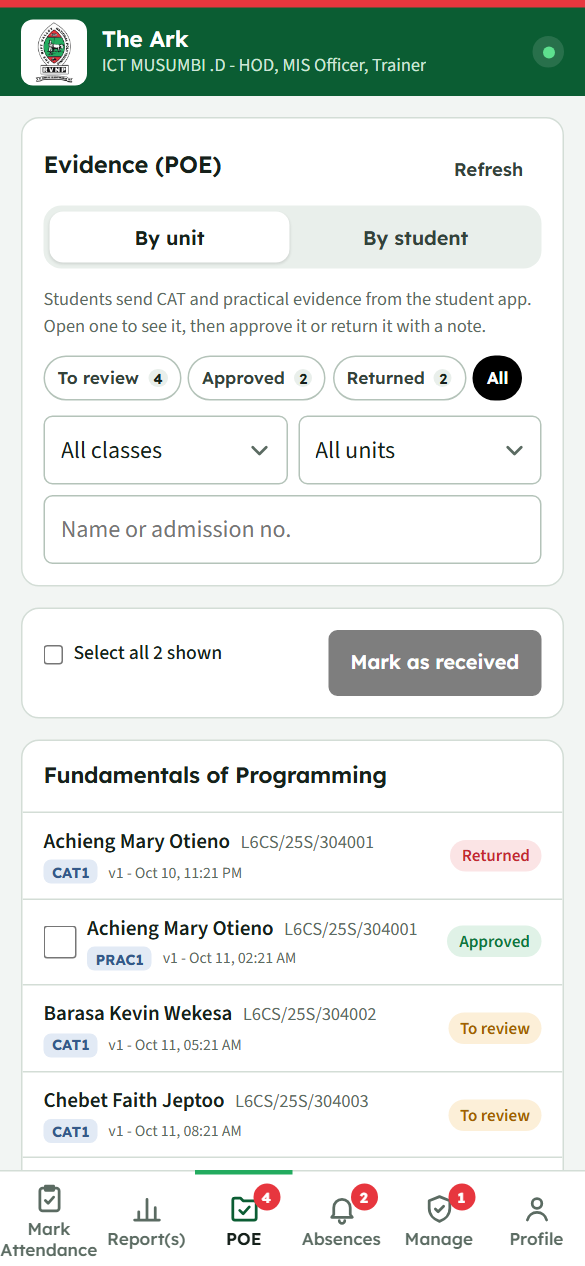
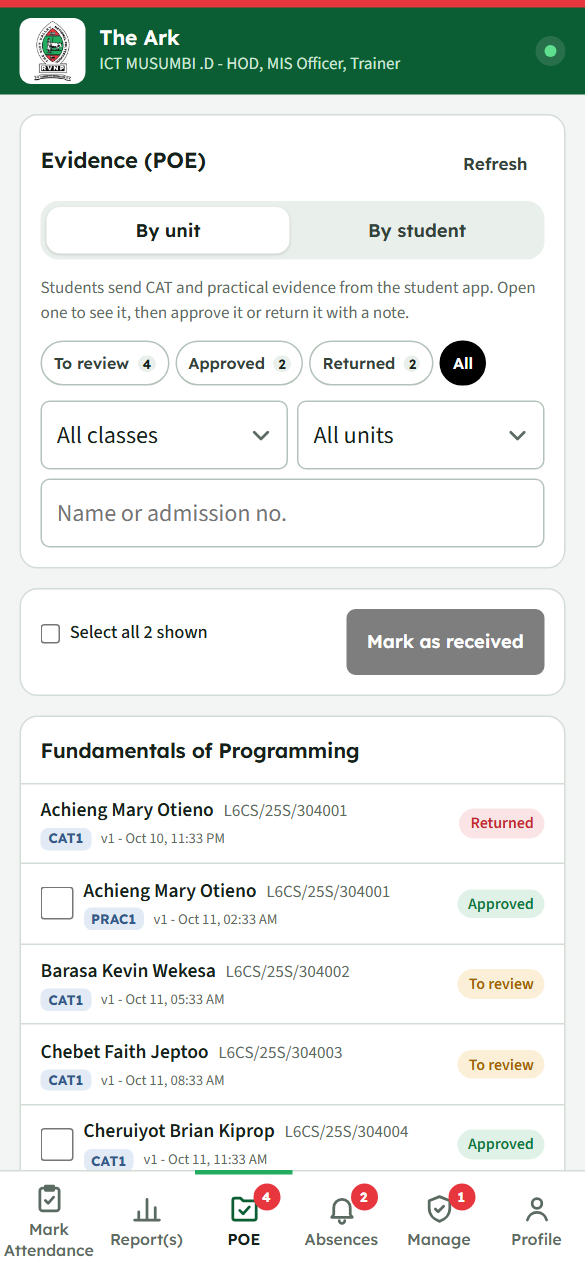
Smaller text again on phones (13 px base), staff and student apps; screenshots refreshed; 4.13.2

diff --git a/styles.css b/styles.css
@@ -947,11 +947,11 @@ body.student .status .btn svg.i { width: 15px; height: 15px; }
 .shutter:active { transform: scale(.94); }
 .shutter:disabled { opacity: .5; }
 
-/* ---------- 4.13.1: smaller text on phones ----------
- * Sizes are in rem, so a 14 px base (instead of 16 px) makes all text and spacing about 12% smaller.
+/* ---------- 4.13.2: smaller text on phones, in both apps ----------
+ * Sizes are in rem, so a 13 px base (instead of 16 px) makes all text and spacing about 19% smaller.
  * Typing boxes stay at 16 px: an iPhone zooms the page when you tap into smaller text. */
 @media (max-width: 600px) {
-  html { font-size: 14px; }
-  body { font-size: 14px; }
+  html { font-size: 13px; }
+  body { font-size: 13px; }
   input, select, textarea { font-size: 16px; }
 }

diff --git a/sw.js b/sw.js
@@ -1,6 +1,6 @@
 /* Service worker: keeps the whole app available with no network.
  * Bump CACHE when you change any file so devices pick up the new version. */
-const CACHE = 'rvnp-attendance-v4.13.1';
+const CACHE = 'rvnp-attendance-v4.13.2';
 /* What this worker needs in order to answer a notification: the server address, this phone's ID and
  * the student's admission number. The student app writes it here when notifications are switched on,
  * because a service worker woken by a notification cannot read the app's own database. */

diff --git a/app.js b/app.js
@@ -7,7 +7,7 @@
  */
 'use strict';
 
-const APP_VERSION = '4.13.1';
+const APP_VERSION = '4.13.2';
 const db = new PouchDB('rvnp_attendance', { auto_compaction: true });
 
 const STATUSES = { P: 'Present', A: 'Absent', L: 'Late', E: 'Excused' };

diff --git a/README.md b/README.md
@@ -406,3 +406,4 @@ This is for the people building the app. [`design-notes.js`](design-notes.js) is
 - **The camera for evidence is inside the student app.** Opening the phone's own camera app let Android close the browser ("unable to complete previous operation due to low memory"), losing the page. Now **Take photo of a page** shows a live camera in the app; **Keep and take the next page** goes straight back to it, and **Retake** redoes a page.
 - **Screenshots in the guides** come from `docs/make-screenshots.py`, which rebuilds them from the current code with an invented demo department.
 - 4.13.1: smaller text on phones (a 14 px base instead of 16 px; typing boxes stay at 16 px so iPhones do not zoom).
+- 4.13.2: text on phones smaller again (13 px base), in both the staff and student apps.

diff --git a/docs/TECHNICAL.md b/docs/TECHNICAL.md
@@ -1,7 +1,7 @@
 # The Ark — Technical Documentation
 
 For whoever sets up, runs and maintains the RVNP ICT attendance system.
-Describes app **4.13.1**, server (Worker) **6.2.0**, database schema **8**, Drive bridge **1.3.0**.
+Describes app **4.13.2**, server (Worker) **6.2.0**, database schema **8**, Drive bridge **1.3.0**.
 For day-to-day use of the apps, see the [User Guide](USER-GUIDE.md).
 
 ---
